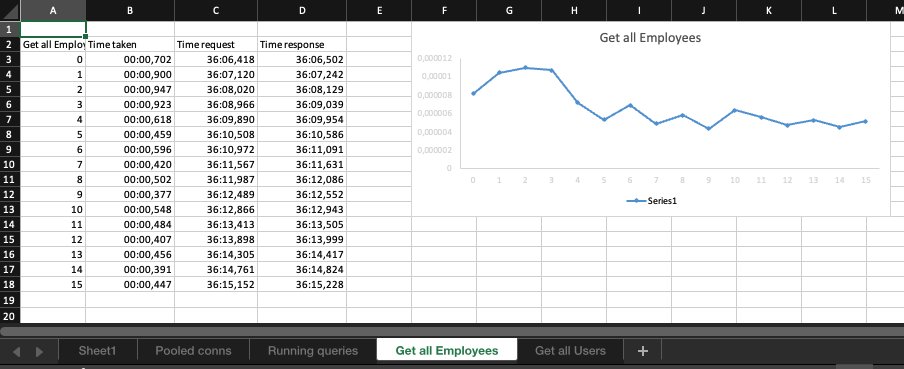
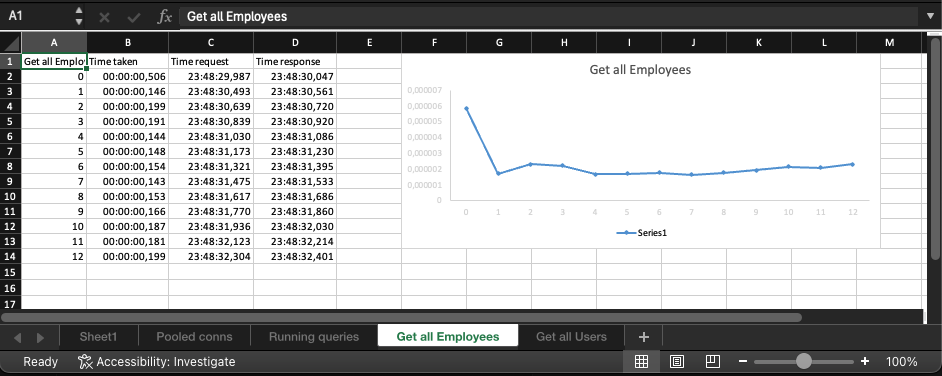
fix time format excel

diff --git a/excel.go b/excel.go
@@ -106,7 +106,7 @@ func addDurationsSheet(f *excelize.File, query tQuery) error {
 	if err != nil {
 		return fmt.Errorf("error executing query: %w", err)
 	}
-	format := "mm:ss.000"
+	format := "hh:mm:ss.000"
 	xStyle, err := f.NewStyle(&excelize.Style{CustomNumFmt: &format})
 	if err != nil {
 		return fmt.Errorf("error creating style: %w", err)
